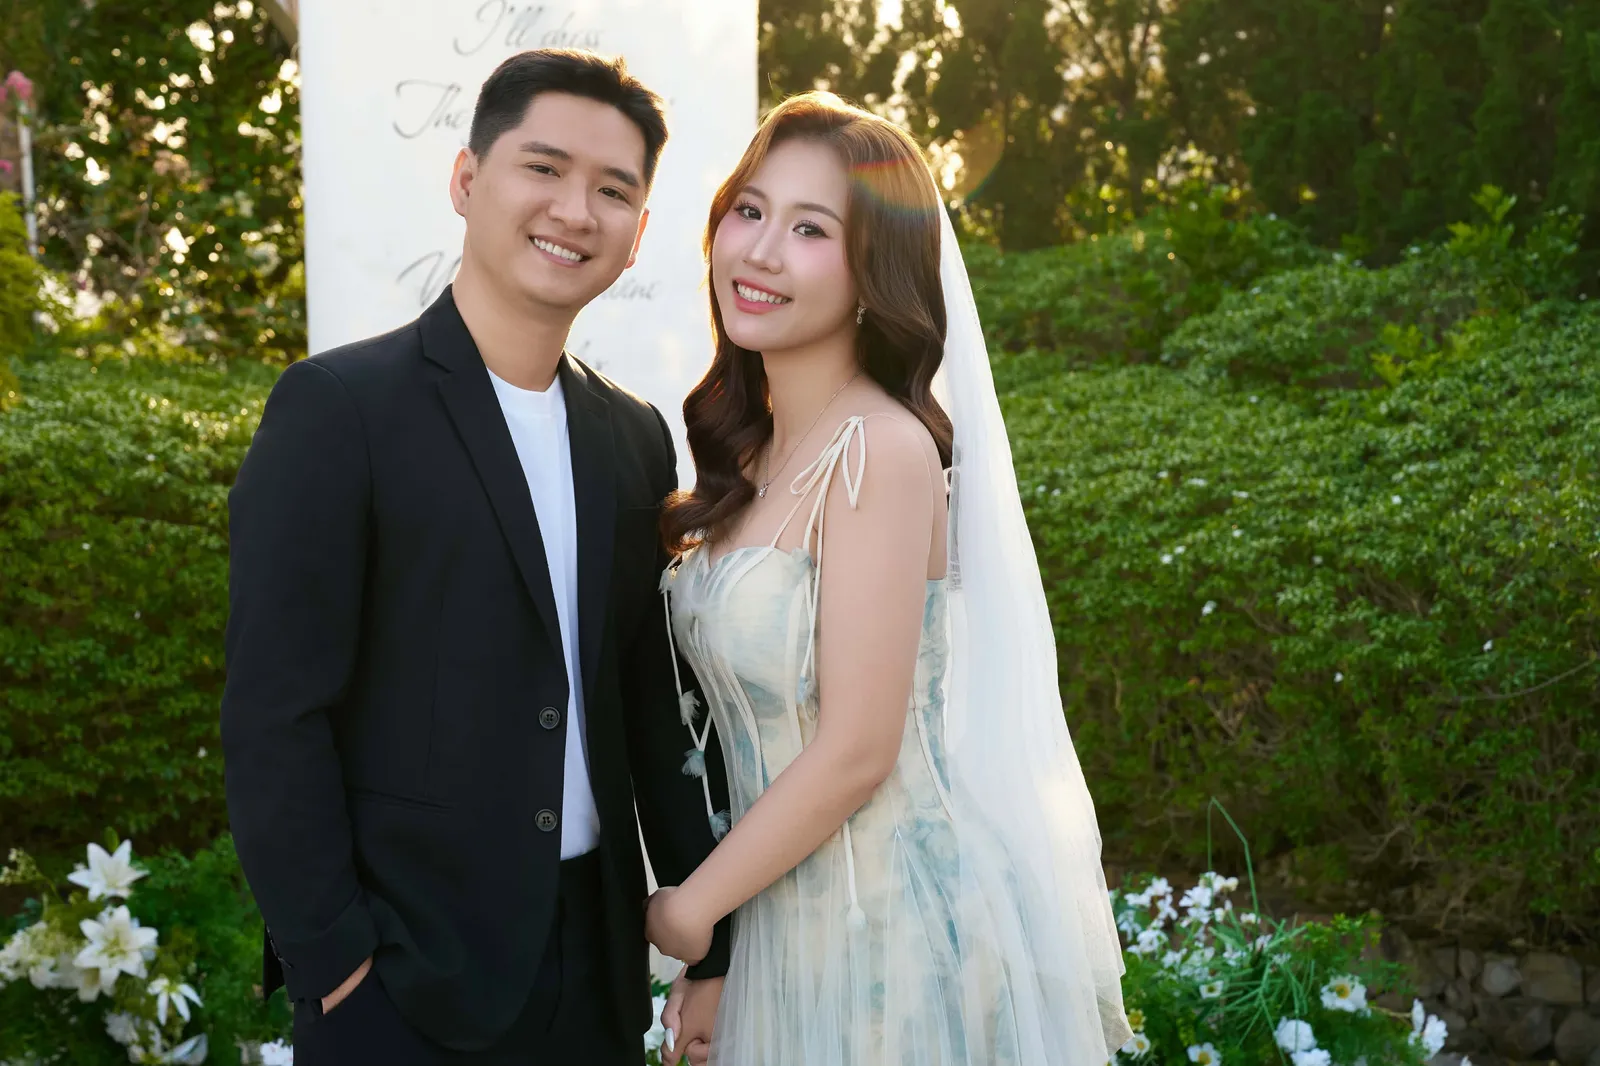
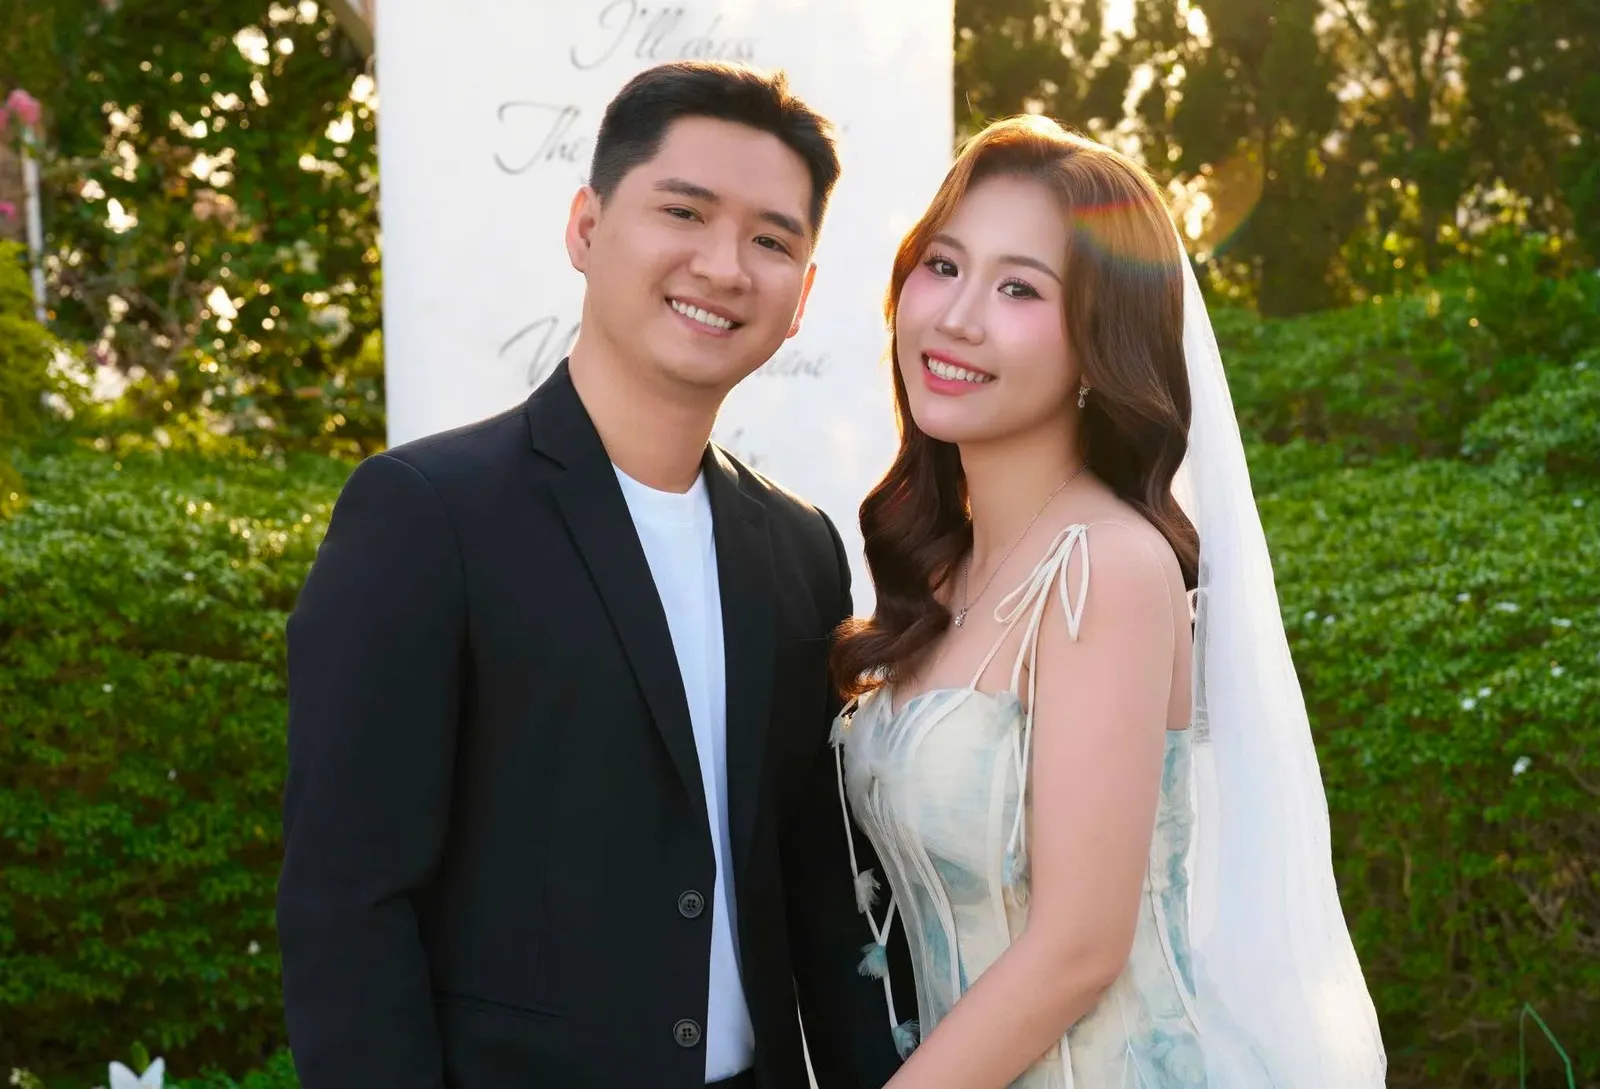
build:f

diff --git a/products/Invitation/Wedding/khach_thuy-dung_thien-duc/index.html b/products/Invitation/Wedding/khach_thuy-dung_thien-duc/index.html
@@ -924,8 +924,8 @@ section { position: relative; overflow: hidden; }
   .bank-card { padding: 14px 16px; }
   .countdown-num { font-size: 22px; }
   .parent-card { padding: 16px 10px; }
-  .env-bg { background-position: 35% center; }
-  .hero-bg { background-position: 35% 30%; }
+  .env-bg { background-position: center; }
+  .hero-bg { background-position: center 30%; }
 }
 </style>
 </head>